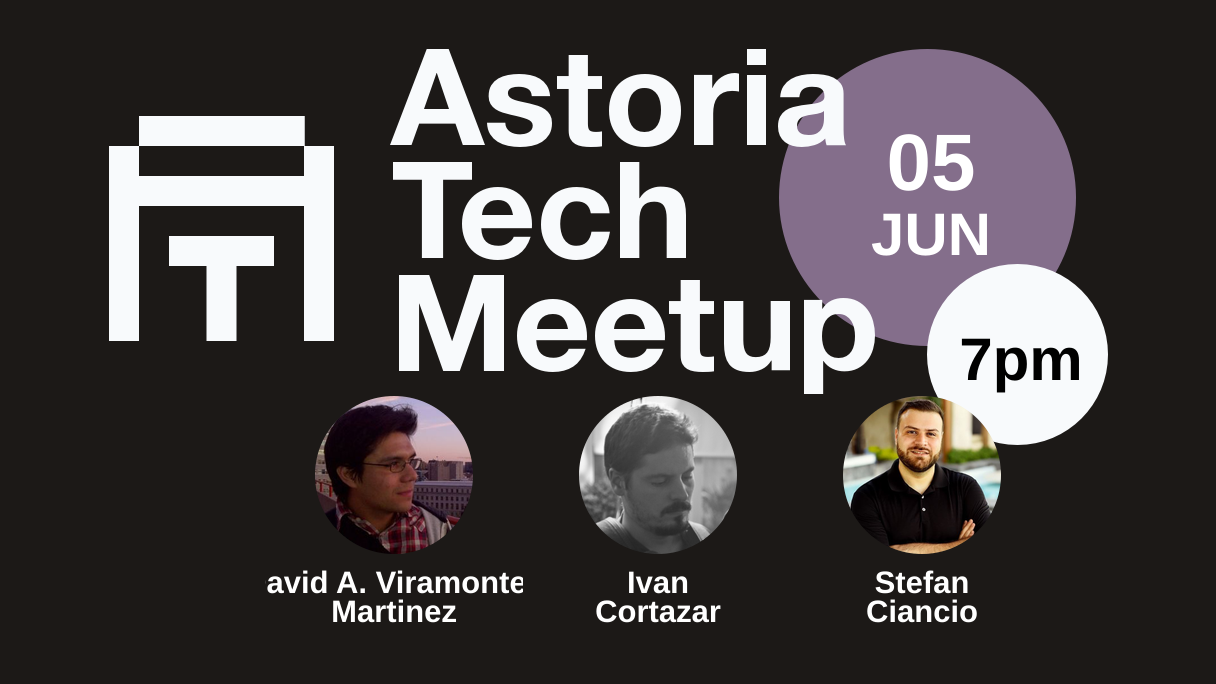
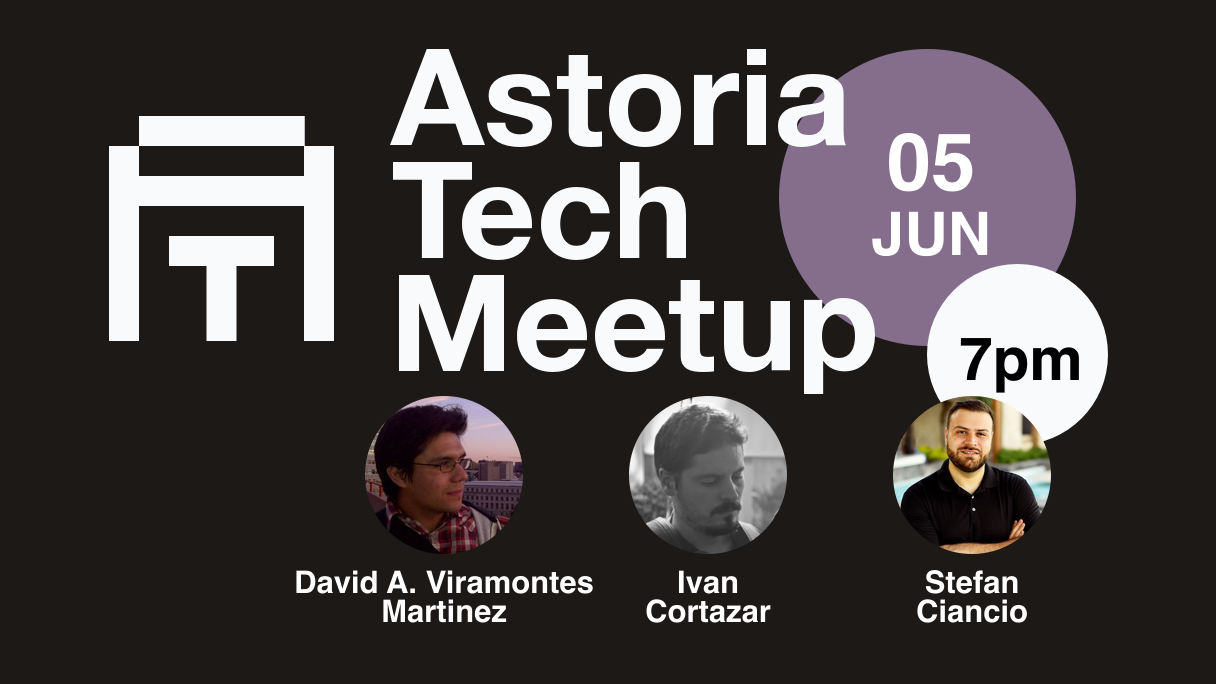
fix: long names for meetup image

diff --git a/packages/image-generator/1.core.ts b/packages/image-generator/1.core.ts
@@ -174,7 +174,7 @@ export async function build(options: Options) {
 
         const svg = speakerSvg({
           imageSize: speakerWidth,
-          xPadding: 50,
+          xPadding: 100,
           lines: Array.isArray(speaker.name) ? speaker.name : optimalName(speaker.name),
           image: base64,
           fontSize: 31,
